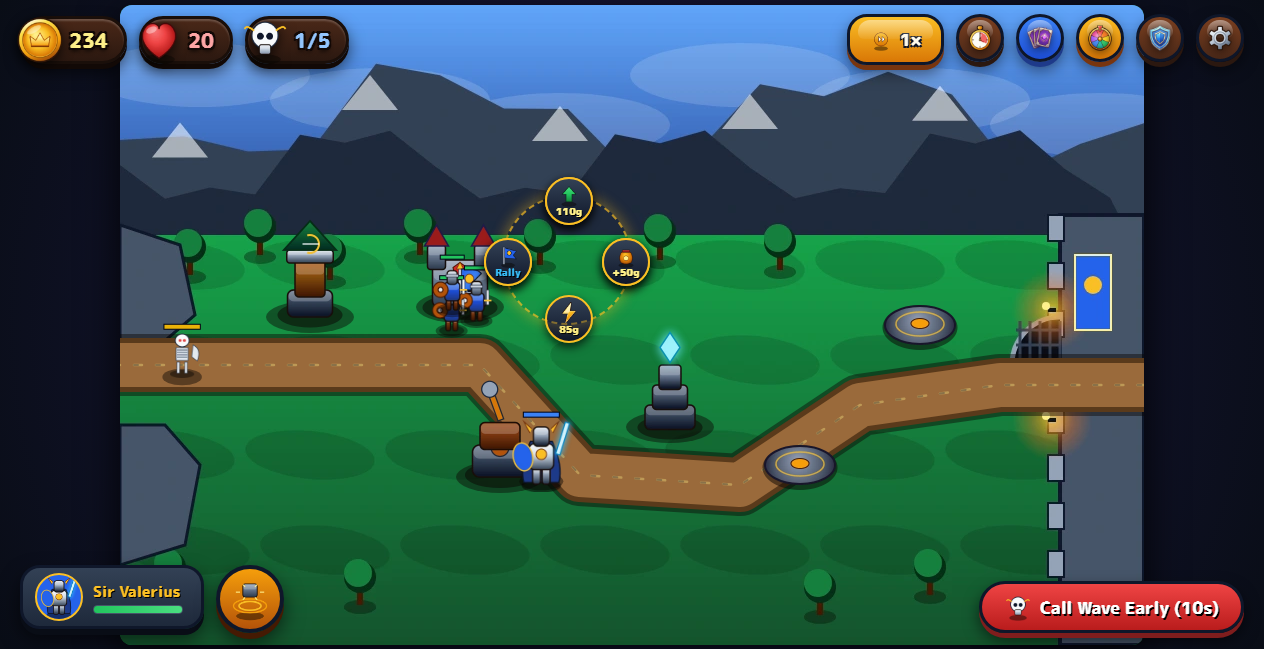
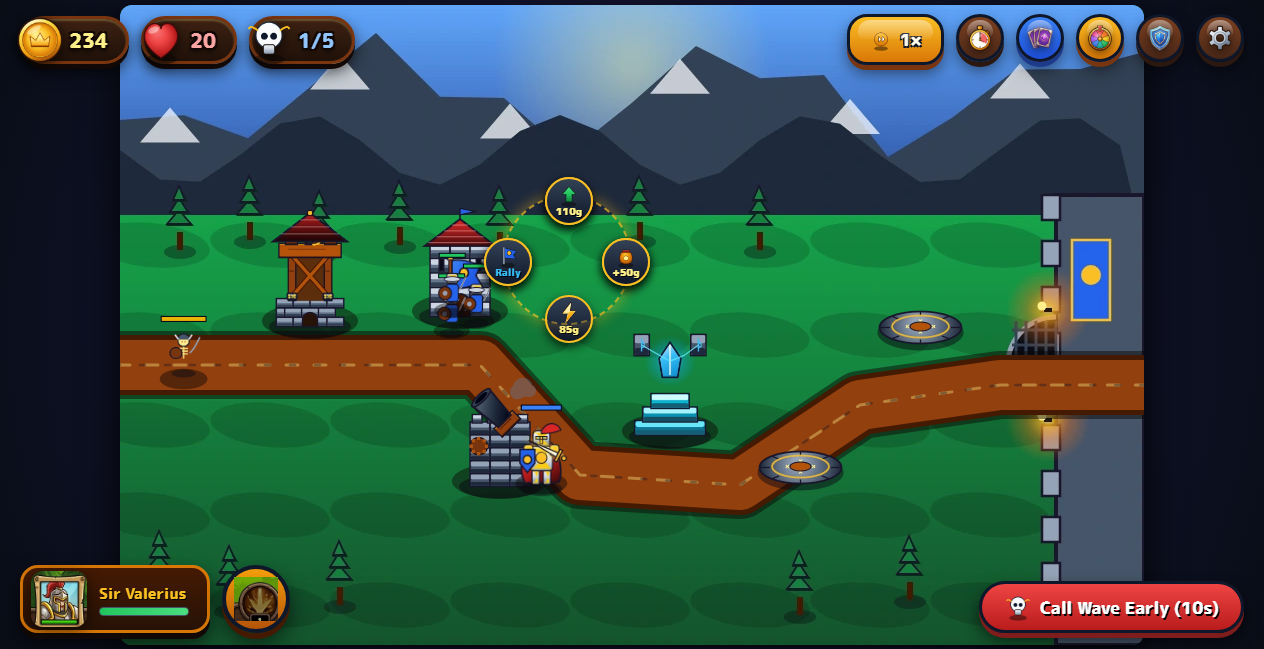
chore(release): v1.2.0 Kingdom Rush graphics overhaul & iOS verification

diff --git a/README.md b/README.md
@@ -7,7 +7,7 @@
 </p>
 
 <p align="center">
-  <strong>Classic Tactical Tower Defense (Kingdom Rush / Bad North Style) for Android</strong><br>
+  <strong>Classic Tactical Tower Defense (Kingdom Rush / Bad North Style) for Android & iOS</strong><br>
   <em>Fortify chokepoints, command barracks stall squads, and unleash your movable Hero against mythic hordes!</em>
 </p>
 
@@ -22,14 +22,14 @@
     <img src="https://img.shields.io/badge/More_Apps-jemangr.app-f59e0b?style=for-the-badge" alt="jemangr.app" />
   </a>
   <a href="https://github.com/jemangr/bastion-guard-releases/releases">
-    <img src="https://img.shields.io/badge/Releases-v1.1.0-22c55e?style=for-the-badge" alt="GitHub Releases" />
+    <img src="https://img.shields.io/badge/Releases-v1.2.0-22c55e?style=for-the-badge" alt="GitHub Releases" />
   </a>
 </p>
 
 <p align="center">
-  <img src="https://img.shields.io/badge/Version-v1.1.0-brightgreen" alt="Version v1.1.0" />
+  <img src="https://img.shields.io/badge/Version-v1.2.0-brightgreen" alt="Version v1.2.0" />
   <img src="https://img.shields.io/badge/Package-app.jemangr.bastionguard-blue" alt="Package app.jemangr.bastionguard" />
-  <img src="https://img.shields.io/badge/Platform-Android%208.0%2B-purple" alt="Android 8.0+" />
+  <img src="https://img.shields.io/badge/Platform-Android%208.0%2B%20%7C%20iOS%2016%2B-purple" alt="Android 8.0+ | iOS 16+" />
   <img src="https://img.shields.io/badge/Languages-EL%20%7C%20EN-gold" alt="Languages EL | EN" />
   <img src="https://img.shields.io/badge/License-All%20Rights%20Reserved-red" alt="All Rights Reserved" />
 </p>
@@ -46,8 +46,12 @@ Always get the latest official Android APK build from this permanent direct link
 
 ---
 
-## ✨ Key Highlights (`v1.0.0 — Initial Release`)
+## ✨ Key Highlights (`v1.2.0 — Kingdom Rush Graphics Overhaul`)
 
+- 🎨 **Kingdom Rush Hand-Painted Cel-Shaded Graphics Overhaul:**
+  - 16 custom-rendered fortress towers across 4 tiers with genuine stone masonry blocks, wood grain timber posts, iron bracing, gears, and pulsating crystals.
+  - Hand-painted scenic biomes with organic cobblestone pathways, cart ruts, and earthen embankments.
+  - High-definition hero card and wooden carved HUD capsules with golden filigree.
 - 🏹 **4 Core Tower Archetypes with 4 Upgrade Tiers (16 unique visual towers):**
   - **Longbow / Ballista:** Rapid single-target arrows. Excellent against swift and flying enemies.
   - **Catapult / Mortar:** Heavy parabolic artillery with devastating AoE crater blasts.
@@ -65,20 +69,25 @@ Always get the latest official Android APK build from this permanent direct link
 - 📺 **Smart & Fair Monetization Engine (`window.BastionGuardAds`):**
   - Rewarded Video options: Double Victory Gold & Stars, Emergency Citadel Reinforcements, Daily Armory Vault spin, and Tower Overcharge Runes.
   - FTUE grace period (6 minutes) and smart cooldown for interstitials.
-- 📱 **Standalone Android APK:**
-  - 100% offline gameplay, hardware-accelerated WebView, offline Greek cartoon font `GameDisplay` (`M PLUS Rounded 1c`), zero external Gradle/Node dependencies.
+- 📱 **Cross-Platform Standalone Builds:**
+  - **Android APK:** 100% offline gameplay, hardware-accelerated WebView, offline Greek cartoon font `GameDisplay` (`M PLUS Rounded 1c`), zero external Gradle/Node dependencies.
+  - **iOS:** Native WebKit container with automatic Apple ID signing (`app.jemangr.bastionguard`).
 
 ---
 
 ## 📸 Screenshots Gallery
 
-| 1. The Whispering Defile & Tower Nodes | 2. Full Fortress Defense & Barracks Squad |
+| 1. Tactical Battlefield & Cel-Shaded Nodes | 2. Full Fortress Defense & Barracks Squad |
 | :---: | :---: |
 | <img src="screenshots/bg_01_battlefield.png" width="340" alt="Tactical Battlefield & Nodes" /> | <img src="screenshots/bg_02_combat_towers.png" width="340" alt="Active Combat with Towers & Soldiers" /> |
 
 | 3. Hero Commander Earth Shockwave Stun | 4. The Bastion Forge Star Upgrades |
 | :---: | :---: |
 | <img src="screenshots/bg_03_hero_shockwave.png" width="340" alt="Hero Earth Shockwave Ultimate" /> | <img src="screenshots/bg_04_forge_upgrades.png" width="340" alt="Star Upgrades in the Bastion Forge" /> |
+
+| 5. Running on iOS (iPhone 18 Pro) |
+| :---: |
+| <img src="screenshots/bg_05_ios_gameplay.png" width="500" alt="Bastion Guard on iPhone" /> |
 
 ---
 
